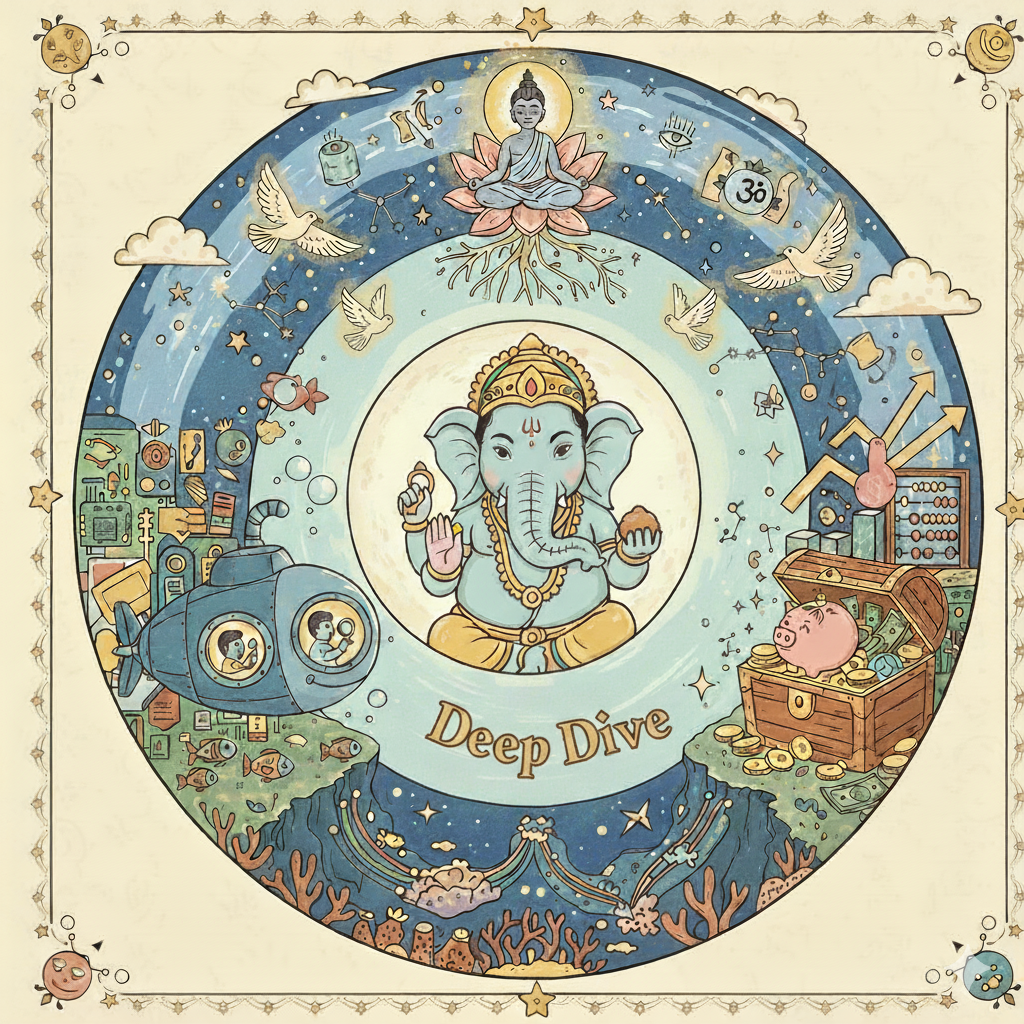
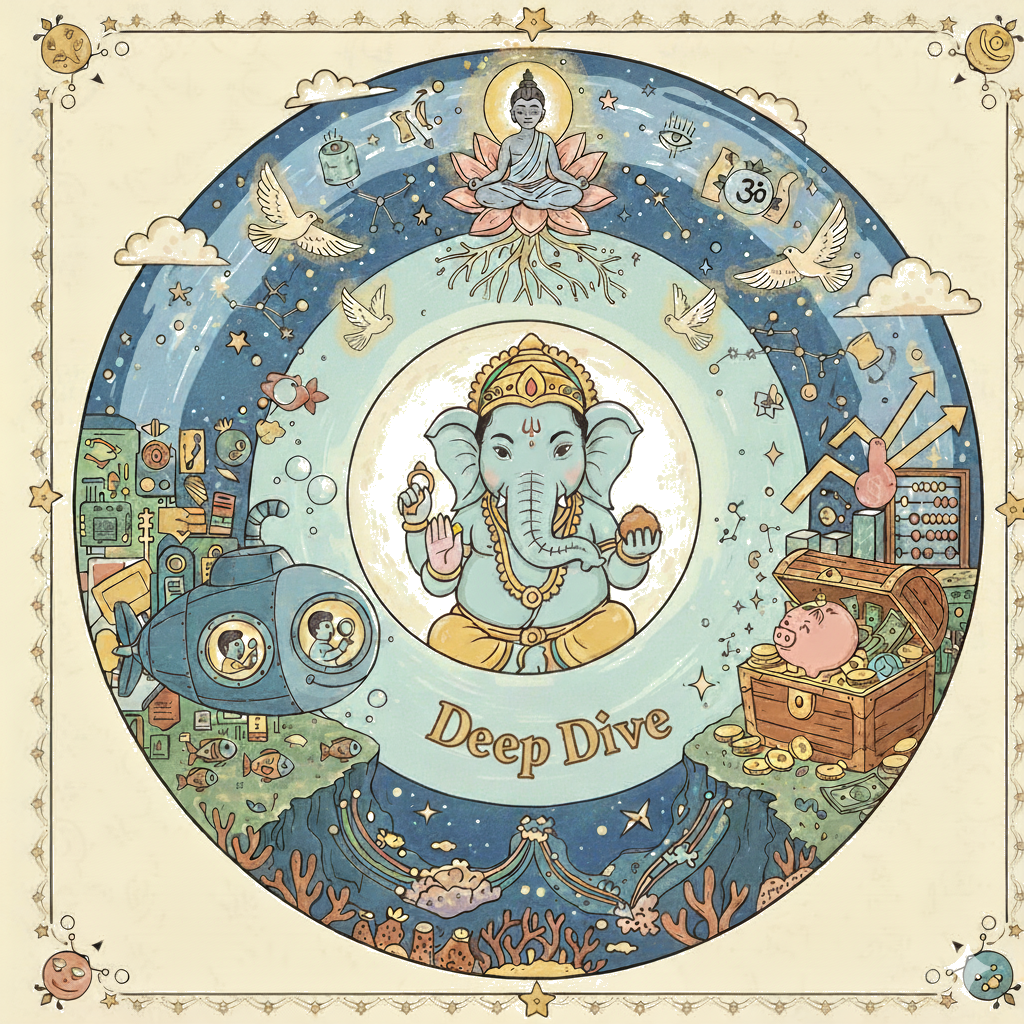
Episode 241: Apply hardened single-video cover and fix rendering

diff --git a/src/241.md b/src/241.md
@@ -1,52 +1,61 @@
 # 241 : Math, Bitcoin, and Immutable Memory
 
 <!-- VIDEO_STRIP_START -->
-<div class="video-single-container" style="display: flex; justify-content: center; padding: 20px 0;">
-  <div style="flex: 0 0 95%; max-width: 800px; position: relative; border-radius: 12px; overflow: hidden; background: #000; aspect-ratio: 16/9; display: flex; flex-direction: column;">
+<div class="video-single-container" style="display: flex; justify-content: center; width: 100%; margin: 20px 0;">
+  <div style="width: 100%; max-width: 1000px; position: relative; border-radius: 12px; overflow: hidden; background: #000; aspect-ratio: 16/9; display: flex; flex-direction: column; box-shadow: 0 4px 20px rgba(0,0,0,0.4);">
     <video src="vid/241-Intro.mp4" style="width: 100%; height: 100%; object-fit: contain;" playsinline loop preload="auto" muted autoplay></video>
-    <button class="vid-toggle" onclick="window.oph_play_toggle(this)" style="position: absolute; top: 15px; right: 15px; background: rgba(0,0,0,0.8); color: white; border: 2px solid white; border-radius: 50%; width: 50px; height: 50px; cursor: pointer; font-size: 24px; z-index: 100;">🔇</button>
+    <button class="vid-toggle" onclick="window.oph_play_toggle(this)" style="position: absolute; top: 15px; right: 15px; background: rgba(0,0,0,0.8); color: white; border: 2px solid white; border-radius: 50%; width: 50px; height: 50px; cursor: pointer; font-size: 24px; z-index: 100; transition: transform 0.2s;" onmouseover="this.style.transform='scale(1.1)'" onmouseout="this.style.transform='scale(1.0)'">🔇</button>
   </div>
 </div>
 
 <center><a href="https://www.tiktok.com/@shutoshabot" target="_blank" style="background-color: #2E2E2E; color: white; padding: 10px 20px; text-align: center; text-decoration: none; display: inline-block; border-radius: 5px; margin-top: 10px; margin-right: 10px;">▶ TikTok ◀</a><a href="https://www.instagram.com/shutoshabot/" target="_blank" style="background-color: #2E2E2E; color: white; padding: 10px 20px; text-align: center; text-decoration: none; display: inline-block; border-radius: 5px; margin-top: 10px; margin-right: 10px;">◈ Instagram ◈</a><a href="https://www.youtube.com/playlist?list=PLIX4sFsmu37q8rU8HKTLhdLPZQadcvx-K" target="_blank" style="background-color: #2E2E2E; color: white; padding: 10px 20px; text-align: center; text-decoration: none; display: inline-block; border-radius: 5px; margin-top: 10px;">⫸ YouTube ⫷</a></center>
 
 <script>
-    window.oph_play_toggle = window.oph_play_toggle || function(btn) {
-    const parent = btn.parentElement;
-    const vid = parent.querySelector('video');
-    const container = btn.closest('.video-carousel-container, .video-single-container');
-    if (vid.muted) {
-      if (container) {
-        container.querySelectorAll('video').forEach(v => {
-          if (v !== vid) {
-            v.pause();
-            v.muted = true;
-            const otherBtn = v.parentElement.querySelector('.vid-toggle');
-            if (otherBtn) otherBtn.innerText = '🔇';
-          }
-        });
-      }
-      vid.muted = false;
-      vid.volume = 1.0;
-      vid.play().then(() => { btn.innerText = '🔊'; }).catch(e => console.error(e));
-    } else {
-      vid.pause();
-      vid.muted = true;
-      btn.innerText = '🔇';
-    }
-    };
-    (function() {
-    const init = () => {
-      const vids = document.querySelectorAll('.video-carousel-container video, .video-single-container video');
-      vids.forEach(v => { 
-        v.muted = true; 
-        v.play().catch(() => {}); 
+window.oph_play_toggle = function(btn) {
+  const parent = btn.parentElement;
+  const vid = parent.querySelector('video');
+  const container = btn.closest('.video-carousel-container, .video-single-container');
+  
+  if (vid.muted || vid.paused) {
+    if (container) {
+      container.querySelectorAll('video').forEach(v => {
+        if (v !== vid) {
+          v.pause();
+          v.muted = true;
+          const otherBtn = v.parentElement.querySelector('.vid-toggle');
+          if (otherBtn) otherBtn.innerText = '🔇';
+        }
       });
-    };
-    setTimeout(init, 500);
-    })();
-    </script>
-    <!-- VIDEO_STRIP_END -->
+    }
+    vid.muted = false;
+    vid.volume = 1.0;
+    vid.play().then(() => { btn.innerText = '🔊'; }).catch(e => console.error('Play failed:', e));
+  } else {
+    vid.pause();
+    vid.muted = true;
+    btn.innerText = '🔇';
+  }
+};
+
+(function() {
+  const init = () => {
+    const vids = document.querySelectorAll('.video-carousel-container video, .video-single-container video');
+    vids.forEach(v => { 
+      v.muted = true; 
+      v.play().catch(() => {}); 
+    });
+  };
+  if (document.readyState === 'complete') { init(); }
+  else { window.addEventListener('load', init); }
+})();
+</script>
+<!-- VIDEO_STRIP_END -->
+
+
+
+
+
+
 
 
 

diff --git a/src/239.md b/src/239.md
@@ -52,6 +52,9 @@
 
 
 
+
+
+
 ## Executive Summary
 This report provides a formal, information-theoretic resolution to the historical conflict between the Abrahamic and Vedic conceptualizations of reincarnation and afterlife accounting. Traditionally, the Abrahamic model posits a single, non-continuous resurrection and final judgment event, whereas the Vedic model relies on a continuous, cyclic progression of rebirth governed by qualitative karmic iterations. Employing the mathematical framework of the Observer-Pattern Hypothesis (OPH), this report demonstrates that both perspectives are coarse-grained historical interpretations of a single, underlying quantum-algebraic architecture [^1] [^2]. By operationalizing the "soul" as a bounded quantum correlation pattern and "justice" as a deterministic continuation assignment governed by boundary error correction, OPH synthesizes these long-standing theological paradigms into a unified computational workflow [^2].
 
@@ -111,7 +114,9 @@ The following table maps traditional metaphysical concepts to their respective c
 
 
 
+
 | Metaphysical Concept | Vedic Coarse-Graining | Abrahamic Coarse-Graining | OPH Mathematical Precision |
+| --- | --- | --- | --- |
 | --- | --- | --- | --- |
 | --- | --- | --- | --- |
 | :--- | :--- | :--- | :--- |

diff --git a/src/test.md b/src/test.md
@@ -1,0 +1,1 @@
+# Test Episode\n\nThis is the first substantial paragraph of the test episode. It has more than one hundred characters to ensure it is correctly identified by the smart anchor logic of the md-publish tool.